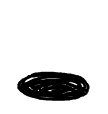
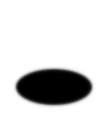
Fix dragon damage.

diff --git a/src/scripts/components/Dragon.ts b/src/scripts/components/Dragon.ts
@@ -114,7 +114,7 @@ export class Dragon extends Phaser.GameObjects.Container {
 			let deathEase2 = Phaser.Math.Easing.Sine.Out(x);
 
 			this.setScale(1 - deathEase);
-			this.sprite.setOrigin(0.5 + deathEase2 * 0.15 * Math.sin(100*timeMs), 0.5);
+			this.sprite.setOrigin(0.0, 0.5 + deathEase2 * 0.03 * Math.sin(100*timeMs));
 			// this.setAlpha(1 - deathEase);
 
 			let blink = (Math.sin(50*timeMs) > 0);
@@ -150,6 +150,7 @@ export class Dragon extends Phaser.GameObjects.Container {
 	damage(amount: number=1) {
 		this.health -= amount;
 		this.hurtTimer = 1000;
+		this.healthFlash = 1;
 		this.sprite.play({ key: 'dragon_hurt' });
 
 		this.text.setText(this.health.toString());
@@ -158,12 +159,6 @@ export class Dragon extends Phaser.GameObjects.Container {
 			this.emit("death");
 		}
 	}
-
-	// onBossDamage(boss: Boss) {
-		// if (this.boss == boss) {
-			// this.healthFlash = 1;
-		// }
-	// }
 
 	get alive() {
 		return this.health > 0;

diff --git a/src/scripts/scenes/GameScene.ts b/src/scripts/scenes/GameScene.ts
@@ -336,7 +336,7 @@ export class GameScene extends BaseScene {
 			}
 
 			this.addEvent(500, () => {
-				this.dragon.damage(1);
+				this.dragon.damage(attackingEnemies.length);
 			});
 
 			this.addEvent(1000, this.onNewRound);
